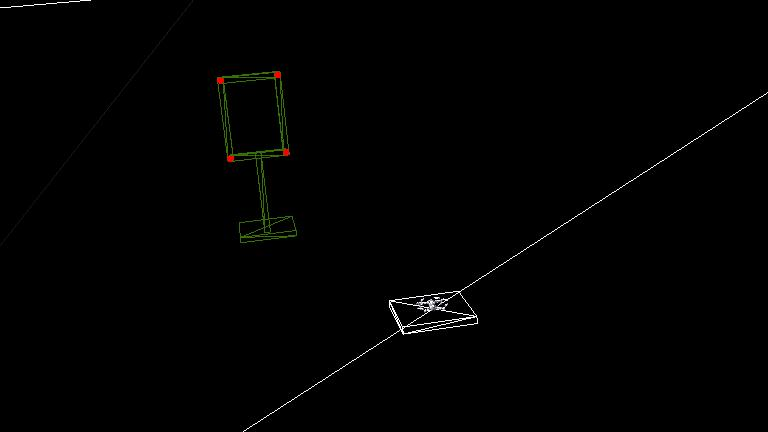
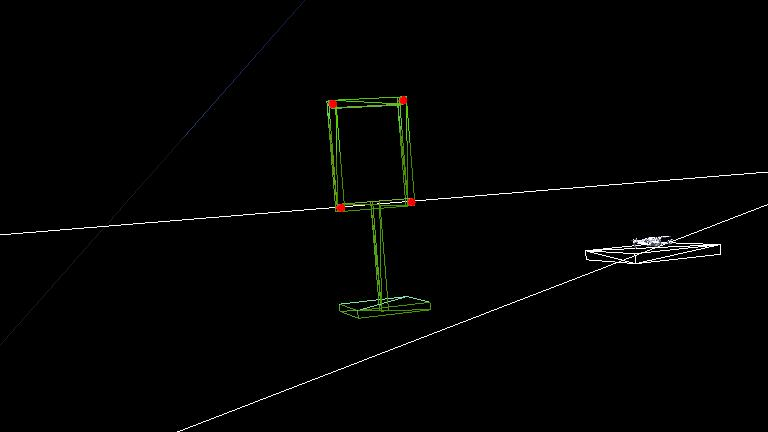
Simulador funcionando exitosamente. Ahora revisar para diferenciar correctamente webots - tello

diff --git a/Webots/puenteTelloMavic.py b/Webots/puenteTelloMavic.py
@@ -11,7 +11,7 @@ from geometry_msgs.msg import Twist
 from sensor_msgs.msg import Imu  
 from geometry_msgs.msg import PointStamped
 
-FACTOR_ESCALA_VELOCIDAD = 0.05
+FACTOR_ESCALA_VELOCIDAD = 0.01
 FACTOR_ESCALA_YAW = 0.5
 
 class TelloMavicPuente(Node):
@@ -51,25 +51,17 @@ class TelloMavicPuente(Node):
 
     def callback_velocidad(self, msg_in):
         lr_in, fb_in, ud_in, yv_in = msg_in.data
-                
-        vx_mundo = fb_in * FACTOR_ESCALA_VELOCIDAD
-        vy_mundo = lr_in * FACTOR_ESCALA_VELOCIDAD
-        vz_mundo = ud_in * FACTOR_ESCALA_VELOCIDAD 
-
-        wz_cuerpo = yv_in * FACTOR_ESCALA_YAW
-
-        yaw_actual = self.orientacion_actual[2]
-        c = math.cos(yaw_actual)
-        s = math.sin(yaw_actual)
-
-        vx_cuerpo = vx_mundo * c + vy_mundo * s
-        vy_cuerpo = -vx_mundo * s + vy_mundo * c
+        
+        vx = fb_in * FACTOR_ESCALA_VELOCIDAD
+        vy = lr_in * FACTOR_ESCALA_VELOCIDAD
+        vz = ud_in * FACTOR_ESCALA_VELOCIDAD 
+        wz = yv_in * FACTOR_ESCALA_YAW
 
         msg_out = Twist()
-        msg_out.linear.x = float(vx_cuerpo)
-        msg_out.linear.y = float(vy_cuerpo)
-        msg_out.linear.z = float(vz_mundo) 
-        msg_out.angular.z = float(wz_cuerpo)
+        msg_out.linear.x = float(vx)
+        msg_out.linear.y = float(vy)
+        msg_out.linear.z = float(vz) 
+        msg_out.angular.z = float(wz)
         
         self.pub_vel_mavic.publish(msg_out)
 

diff --git a/Puertas/nodoNavegacionSimple.py b/Puertas/nodoNavegacionSimple.py
@@ -9,9 +9,9 @@ from rclpy.qos import QoSProfile, ReliabilityPolicy, HistoryPolicy, DurabilityPo
 DISTANCIA_APROXIMACION_M = 0.40
 DISTANCIA_SALIDA_M = 1.5
 MARGEN_ALTURA_M = 0.0
-AUMENTAR_VELOCIDAD = 100.0
+AUMENTAR_VELOCIDAD = 15.0
 AUMENTAR_YAW = 4.0
-VELOCIDAD_MAXIMA = 20
+VELOCIDAD_MAXIMA = 30
 VELOCIDAD_MAXIMA_YAW = 7.0
 DISTANCIA_NUEVA_PUERTA_M = 1.0
 ERROR_POSICION_M = 0.15
